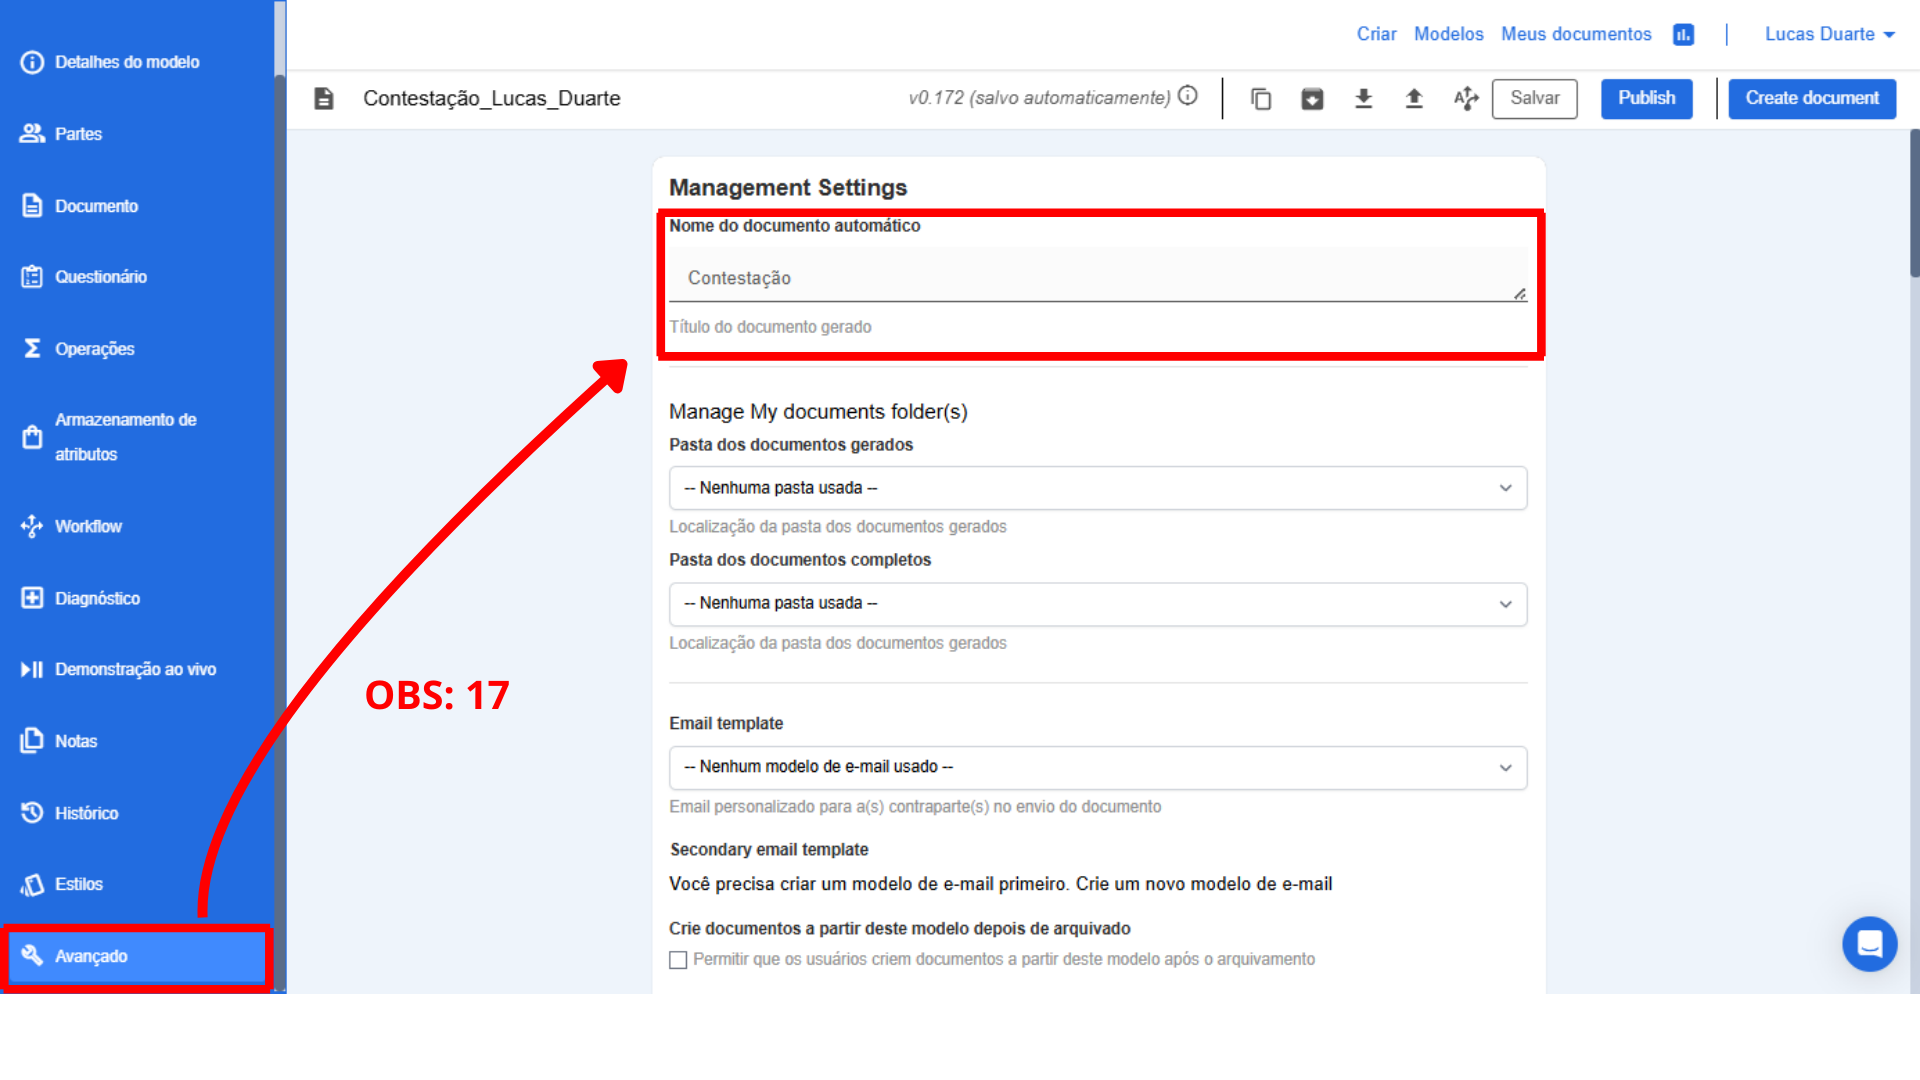
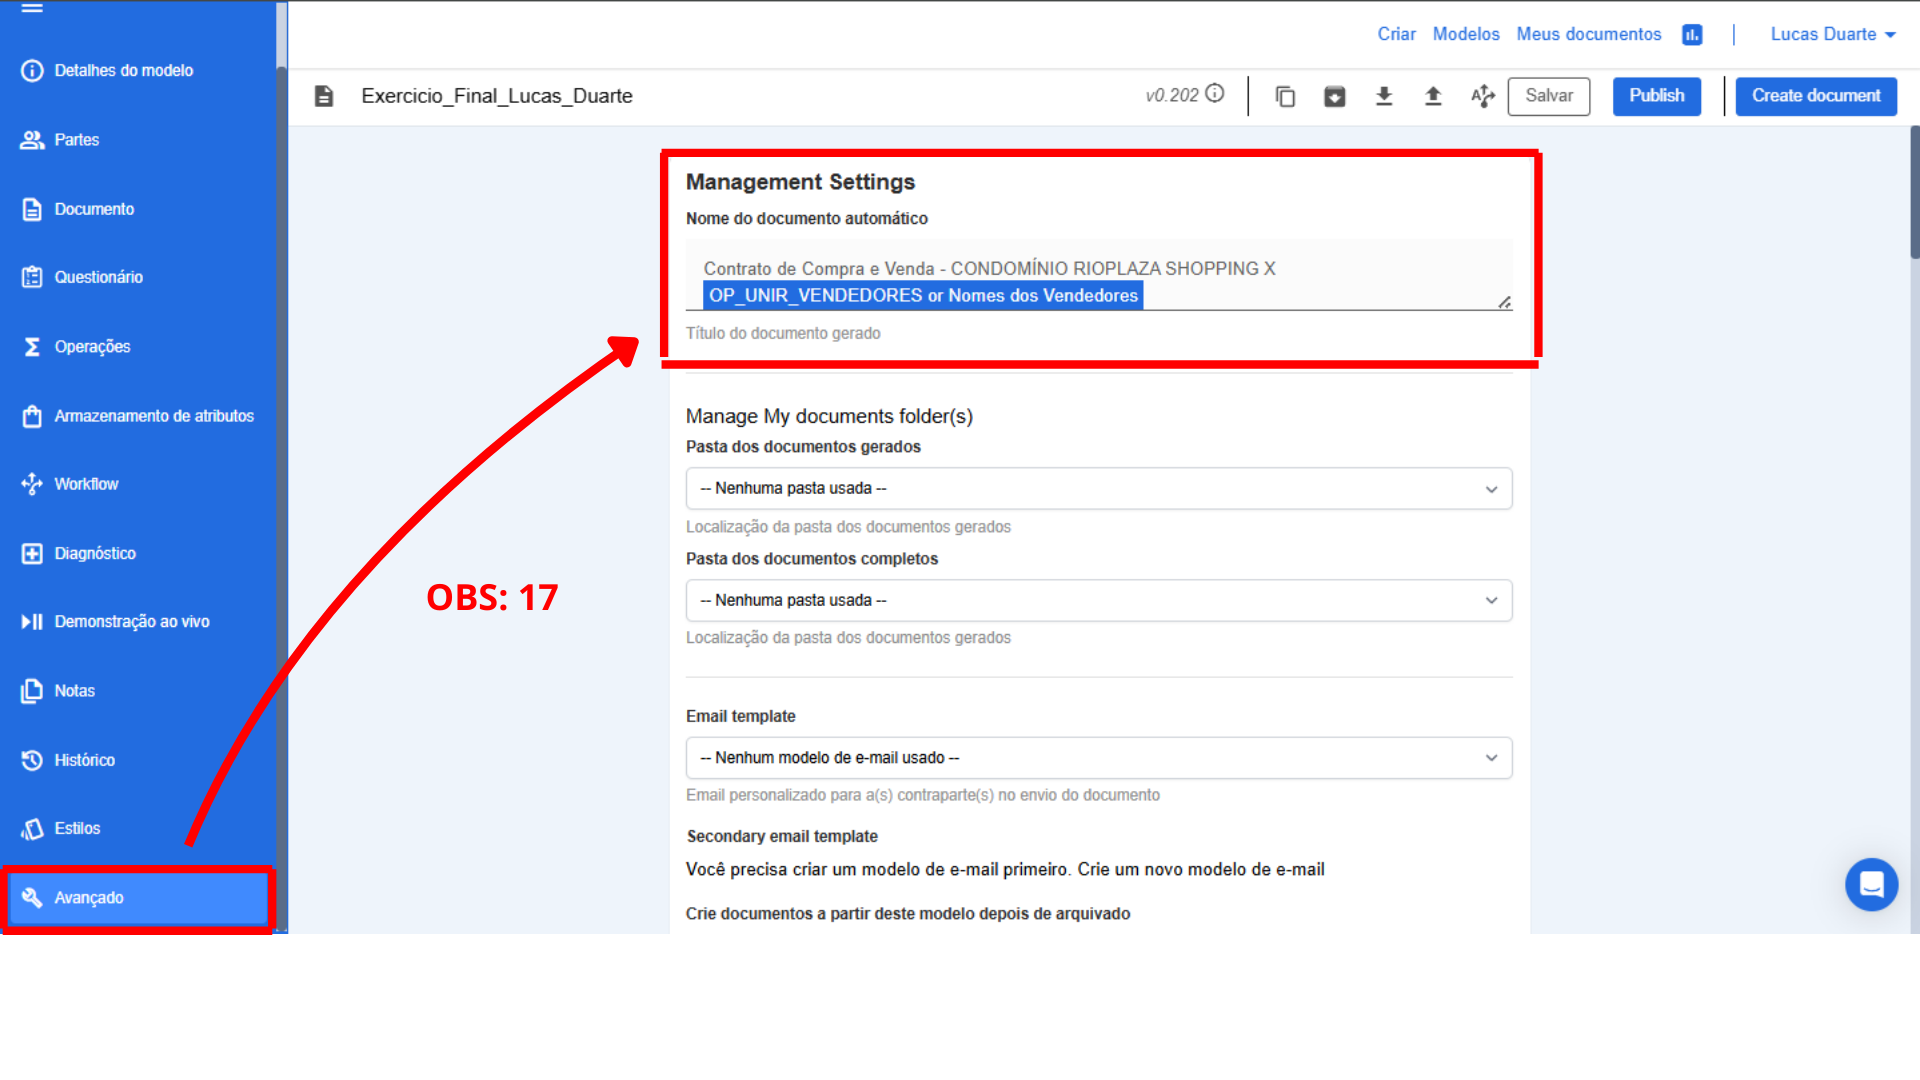
feat: explicando os passos, observações e alterando algumas imagens

diff --git a/README.md b/README.md
@@ -28,7 +28,7 @@ ATENTAR-SE A DETALHES PEQUENOS, ERROS E DIFERENÇAS
 ### 🎯 Criação de Estilos
 - Alinhamento
 - Numeração
-- Estilo padrão (sem negrito ou itálico)
+- Criar Estilo padrão (sem negrito ou itálico)
 - Uso do TAB para mudar o nível da numeração
 - Nome dos estilos com padrão `Adoc_Corpo`, `Adoc_Recuo`, `Adoc_Numeracao`, `Adoc_Citacao`, etc.
 
@@ -57,7 +57,7 @@ ATENTAR-SE A DETALHES PEQUENOS, ERROS E DIFERENÇAS
 
 ### 🔄 Uso de Loops
 - Permite repetir elementos dinamicamente, como listas de partes contratantes ou serviços.
-- Exemplo de loop: [Clique aqui](#4-operações-e-loops)
+- Exemplo de loop: [Clique aqui](#)
 
 ### 🔗 Tipos de API suportadas
 # Integrações com APIs no Avvoka
@@ -143,60 +143,158 @@ ATENTAR-SE A DETALHES PEQUENOS, ERROS E DIFERENÇAS
 
 ## ✅ Espaços para imagens explicativas
 
-## 1. Processo de formatação no Word
+# 1. Processo de formatação no Word
 ![Word](/imgs/1.png)
+### PASSO 1: Criar estilos para padronizar o documento.
+### PASSO 2: Tabela de numeração para número de tópicos e cláusulas.
+---
 ![Word](/imgs/2.png)
+### PASSO 3: Selecionar o tipo de numeração.
+---
 ![Word](/imgs/3.png)
+### PASSO 4: Definir o nível dos parágrafos.
+### PASSO 5: Tipos de níveis prontos e exemplos.
+### PASSO 6: Para configurar o nível manualmente.
+### OBS 1: Estilos, como cores da fonte, negrito, itálico, etc.
+---
 ![Word](/imgs/4.png)
+### PASSO 7: Tela de configuração dos níveis.
+---
 ![Word](/imgs/5.png)
+### OBS 2: Lista de comentários a ser seguido para a automação, e o que o cliente deseja.
+---
 ![Word](/imgs/6.png)
-
-## 2. Automação Avvoka 
+### OBS 3: Tela para mostrar estilos utilizados.
+--- 
+---
+# 2. Automação Avvoka 
 ![Automação Avvoka](/imgs/7.png)
+### OBS 1: Opção Início para alterar alguma fonte ou colocar diretamente estilos pela Avvoka.
+---
 ![Automação Avvoka](/imgs/8.png)
+### OBS 2: Opção Inserir possibilita colocar e criar tabelas.
+---
 ![Automação Avvoka](/imgs/9.png)
+### OBS 3: Opção Estilos possibilita ver os estilos que foram aplicados do Word.
+---
 ![Automação Avvoka](/imgs/10.png)
+### OBS 4: Opção Automação é onde criamos as variáveis, condicionais, loops e colocamos as operações.
+---
 ![Automação Avvoka](/imgs/11.png)
+### OBS 5: Cria a variável.
+---
 ![Automação Avvoka](/imgs/12.png)
+### OBS 6: Insere condição de linha.
+---
 ![Automação Avvoka](/imgs/13.png)
-
+### OBS 7: Insere condição de bloco.
+---
 ## 3. Operações e Loops
 ![Operações e Loops](/imgs/14.png)
+### OBS 8: Cria o loop. 
+---
 ![Operações e Loops](/imgs/15.png)
+### OBS 8.1: Aqui inserimos o nome do loop.
+---
 ![Operações e Loops](/imgs/16.png)
+### OBS 8.2: Em caso de loop escravo, aqui escolhemos o loop mestre pelo nome de outro loop.
+---
 ![Operações e Loops](/imgs/17.png)
+### OBS 8.3: Muda o nome do controlador do repetidor, onde muda o nome do botão para "acrescentar" algo no loop.
+---
 ![Operações e Loops](/imgs/18.png)
+### OBS 9: Inserir operação.
+---
 ![Operações e Loops](/imgs/19.png)
+### OBS 10: Lista onde ficam as operações criadas.
+---
 ![Operações e Loops](/imgs/20.png)
+### OBS 10.1: Exemplo de operação para formatar valor em dinheiro.
+---
 ![Operações e Loops](/imgs/21.png)
+### OBS 10.2: Exemplo de operação com Regex, para modificar uma palavra para encaixar em uma frase de forma coesa.
+---
 ![Operações e Loops](/imgs/22.png)
+### OBS 10.3: Continuação da OBS 10.3.
+---
 ![Operações e Loops](/imgs/23.png)
+### OBS 10.4: Criamos operações assim em casos da variável estar próxima dos 180 usos.
+---
 ![Operações e Loops](/imgs/24.png)
+### OBS 10.5: Criamos operações assim em casos da variável estar próxima dos 180 usos.
+---
 ![Operações e Loops](/imgs/25.png)
+### OBS 10.6: Exemplo de operação para formatar valor em dinheiro.
+---
 ![Operações e Loops](/imgs/26.png)
+### OBS 10.7: Exemplo de operação para formatar o tipo data.
+---
 ![Operações e Loops](/imgs/27.png)
+### OBS 10.8: Operação para pegar a data do sistema e utilizar a data atual do computador.
+---
 ![Operações e Loops](/imgs/28.png)
+### OBS 10.9: Operação para concatenar algo e fazer um conjunto, fazendo por exemplo uma lista.
+---
 ![Operações e Loops](/imgs/29.png)
+### OBS 10.10: Operação para contar quantos elementos possui na lista.
+---
 ![Operações e Loops](/imgs/30.png)
+### OBS 10.11: Exemplo de operação para flexão de gênero.
+---
 ![Operações e Loops](/imgs/31.png)
+### OBS 10.11.1: Continuação do exemplo - flexão de gênenro.
+---
 ![Operações e Loops](/imgs/32.png)
+### OBS 10.11.2: Continuação do exemplo - flexão de gênenro.
+---
 ![Operações e Loops](/imgs/33.png)
+### OBS 10.11.3: Continuação do exemplo - flexão de gênenro.
+---
 ![Operações e Loops](/imgs/34.png)
+### OBS 10.11.4: Continuação do exemplo - flexão de gênenro.
+---
 ![Operações e Loops](/imgs/35.png)
+### OBS 10.11.5: Continuação do exemplo - flexão de gênenro.
+---
 ![Operações e Loops](/imgs/36.png)
+### OBS 10.12: Exemplo de operação de loop em linha.
+---
 ![Operações e Loops](/imgs/37.png)
+### OBS 10.12.1: Continuação do exemplo de operação de loop em linha.
+---
 ![Operações e Loops](/imgs/38.png)
-
-## 4. Exemplo de questionário no Avvoka
+### OBS 10.12.2: Continuação do exemplo de operação de loop em linha.
+---
+![Operações e Loops](/imgs/47.png)
+### OBS 10.13: Para linkar uma variável a outra aperte ~ + ESPAÇO para fazer essa conexão.
+---
+![Operações e Loops](/imgs/48-modified.png)
+### OBS 10.14: Exemplo de operação de soma onde começa em 1 e vai adicionando +1 conforme aumenta o loop.
+---
+# 4. Exemplo de questionário no Avvoka
 ![Questionário](/imgs/39.png)
+### OBS 11: Caixa de Seções criadas, as quais têm um fundo azul claro.
+### OBS 12: Perguntas do questionário.
+---
 ![Questionário](/imgs/40.png)
+### OBS 13: Opções de tipos de questionários podendo ser, texto, número, do tipo data, botões, etc.
+---
 ![Questionário](/imgs/41.png)
+### OBS 14: Outras opções como listas. 
+---
 ![Questionário](/imgs/42.png)
+### OBS 15: Aqui conseguimos ver a quantidade de vezes que foi utilizado uma variável, onde foi utilizada e alterar o nome da mesma.
+---
 ![Questionário](/imgs/43.png)
+### OBS 16: No Histórico conseguimos ver os SAVES anteriores.
+---
 ![Questionário](/imgs/44.png)
+### OBS 17: Aqui configuramos o título do documento gerado de forma dinâmica.
+---
 
-### 5. Configuração de API
+# 5. Configuração de API
 ![Configuração da API](/imgs/45.png)
+### OBS 18: Aqui configuramos as API's que vão ser usadas, por padrão **IRF_XXXXXX_CPF**, **IRF_XXXXXX_CNPJ**, **ICEP_XXXXXX_CEP** e **API_VALOR_XXXXXX_BRL**.
 
 ---
 
